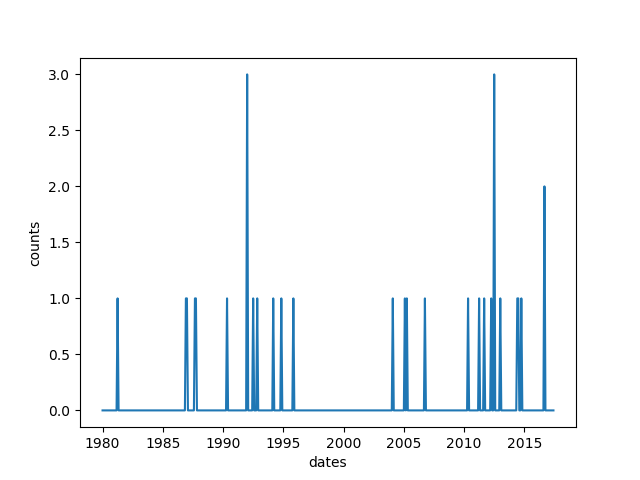
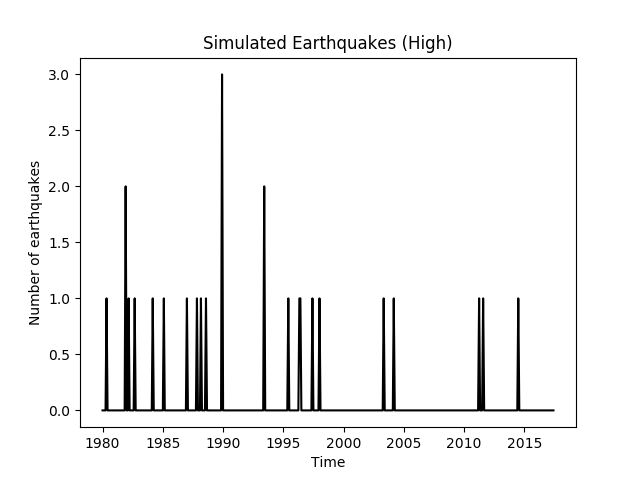
adding graphs

diff --git a/code/simulate.py b/code/simulate.py
@@ -103,27 +103,29 @@ while count <= 500:
 
     ##############################################################################
 
-    ## SIMULATE AND PLOT
+    # ## SIMULATE AND PLOT
 
     # # plot water data
-    # plt.plot(dates, use_water)
+    # plt.plot(dates, use_water, color = 'k')
     # plt.xticks(dates[::60])
-    # plt.xlabel('dates')
-    # plt.ylabel('bbl')
+    # plt.xlabel('Time')
+    # plt.ylabel('Volume (bbl)')
+    # plt.title('Water Injections Sample')
     # plt.savefig('sim_results/water_injections.png')
     # plt.show()
 
     # # plot earthquake data
-    # plt.plot(dates, eqs)
+    # plt.plot(dates, eqs, color = 'k')
     # plt.xticks(dates[::60])
-    # plt.xlabel('dates')
-    # plt.ylabel('counts')
+    # plt.xlabel('Time')
+    # plt.ylabel('Number of earthquakes')
+    # plt.title('Simulated Earthquakes (High)')
     # plt.savefig('sim_results/eq_example_high.png')
     # plt.show()
 
-    # rank data
-    eqs_rank = rankdata(eqs)
-    water_rank = rankdata(use_water)
+    # # rank data
+    # eqs_rank = rankdata(eqs)
+    # water_rank = rankdata(use_water)
 
     # run simulation
     pval, pval_lower, pval_upper = sim.corr_test(water_rank, eqs_rank, norm = 2, plot = False, num_trials = 5000)

diff --git a/code/sim_analysis.py b/code/sim_analysis.py
@@ -31,18 +31,18 @@ for i in range(1, 13):
 # SAVE SUMMARY STATISTICS
 
 print_statements = [
-	"Low seismicity, low water, 3 months",
-	"High seismicity, low water, 3 months",
-	"Low seismicity, high water, 3 months",
-	"High seismicity, high water, 3 months",
-	"Low seismicity, low water, 9 months",
-	"High seismicity, low water, 9 months",
-	"Low seismicity, high water, 9 months",
-	"High seismicity, high water, 9 months",
-	"No seismicity, low water, 3 months",
-	"No seismicity, high water, 3 months",
-	"Low seismicity, no water, 3 months",
-	"High seismicity, no water, 3 months"
+	"Low background, low water, 3 months",
+	"High background, low water, 3 months",
+	"Low background, high water, 3 months",
+	"High background, high water, 3 months",
+	"Low background, low water, 9 months",
+	"High background, low water, 9 months",
+	"Low background, high water, 9 months",
+	"High background, high water, 9 months",
+	"No background, low water, 3 months",
+	"No background, high water, 3 months",
+	"Low background, no water, 3 months",
+	"High background, no water, 3 months"
 ]
 
 to_save = [["", "Mean p-values", "Mean p-values lower", "Mean p-values upper", "% of p-values <= 0.05"]]
